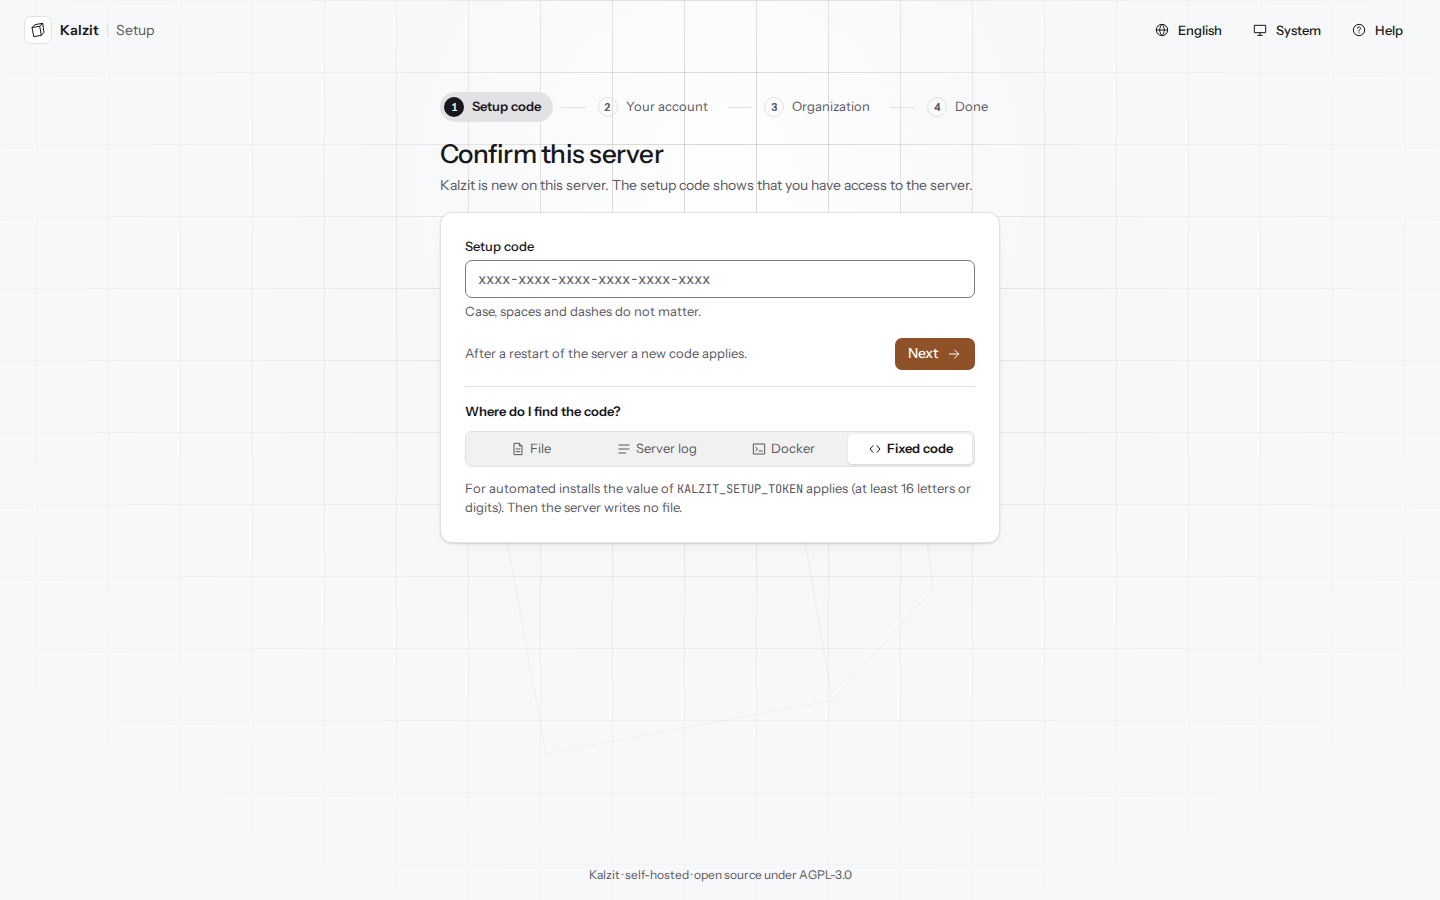
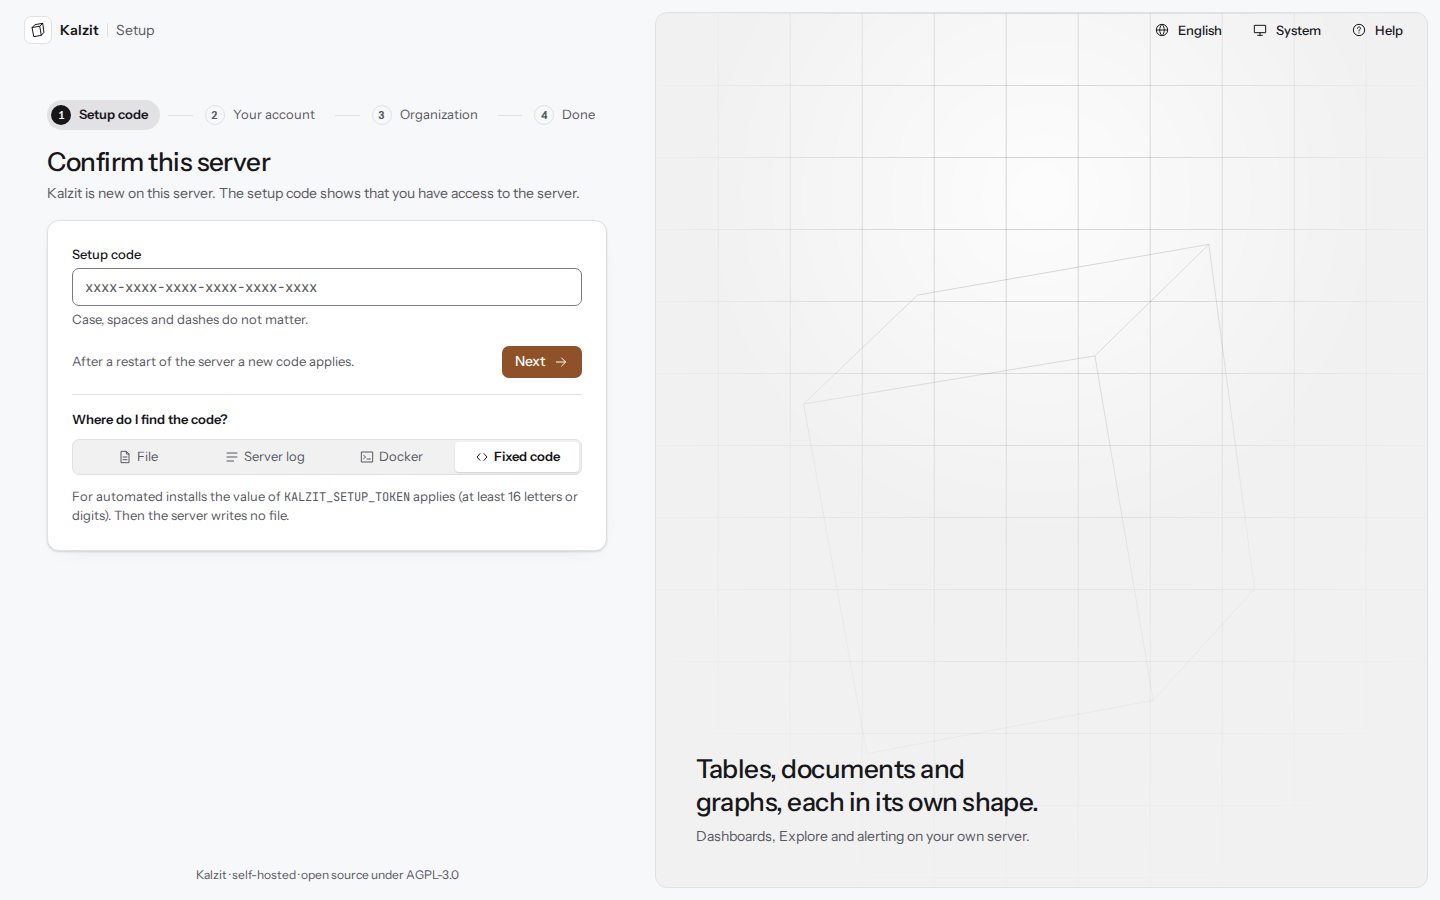
Split the pages before sign-in into form and panel, with the sign-in notice as a card of its own
On wide screens the form stands in a column on the left and a panel on the
right carries the calm backdrop. The admin's sign-in notice moves from a small
grey box above the form into a raised card in that panel, level with the
heading; on narrow screens it stands above the heading. Without a notice the
panel says one line about the product. The last setup step and help keep the
centred column. The blueprint notes the new layout.

diff --git a/ui/src/auth/auth.css b/ui/src/auth/auth.css
@@ -1,6 +1,8 @@
 /*
  * The pages before the app shell: sign in, setup and help (docs/design/blueprint/Access.dc.html).
- * One centred column on a calm backdrop, a slim top bar with the mark, language, theme and help.
+ * A slim top bar with the mark, language, theme and help. On wide screens the form stands in a
+ * column on the left and a panel on the right carries the calm backdrop and the admin's notice or
+ * one line about the product; narrow screens and the widest pages keep one centred column.
  * Graphite and hairlines as in the app; the copper only on the one primary button of a screen.
  * Errors are a tinted fill, selected and current states a neutral tint and weight.
  */
@@ -23,6 +25,8 @@
   /* Top bar: the mark (and "Setup") on the left, language, theme and help on the right. */
   .access__top {
     position: relative;
+    /* Above the backdrop, which follows it in the page. */
+    z-index: var(--z-sticky);
     display: flex;
     align-items: center;
     gap: var(--space-2);
@@ -85,6 +89,66 @@
 
   .access__tool:hover {
     color: var(--text);
+  }
+
+  /*
+   * The panel: on narrow screens it is no box of its own (the backdrop lies behind the page and
+   * the notice stands above the form); the split layout below makes it the right half.
+   */
+  .access__panel {
+    display: contents;
+  }
+
+  .access__panel-body {
+    position: relative;
+    box-sizing: border-box;
+    width: 100%;
+    max-width: calc(var(--size-access-column) + var(--space-8));
+    margin-inline: auto;
+    padding: var(--space-5) var(--space-4) 0;
+  }
+
+  .access__panel-body:not(:has(.access__notice)) {
+    display: none;
+  }
+
+  /* One line about the product; only the panel of the split layout has room for it. */
+  .access__say {
+    display: grid;
+    gap: var(--space-2);
+    max-width: var(--size-access-column);
+  }
+
+  .access__say-title {
+    font-size: var(--font-size-2xl);
+    font-weight: var(--font-weight-medium);
+    line-height: var(--line-height-tight);
+    letter-spacing: var(--letter-spacing-display);
+    text-wrap: balance;
+  }
+
+  .access__say-text {
+    color: var(--text-muted);
+  }
+
+  /* The admin's notice to everyone who signs in: a raised card in full text color, not a hint. */
+  .access__notice {
+    display: flex;
+    align-items: flex-start;
+    gap: var(--space-3);
+    padding: var(--space-4);
+    border: var(--border-width) solid var(--border);
+    border-radius: var(--radius-lg);
+    background: var(--bg-raised);
+    box-shadow: var(--shadow-raised);
+    color: var(--text);
+    overflow-wrap: anywhere;
+  }
+
+  .access__notice > .icon {
+    flex: none;
+    margin-block-start: var(--space-half);
+    color: var(--text-muted);
   }
 
   /* The column: as wide as its content needs, centred, with room above and below. */
@@ -1197,6 +1261,87 @@
 
   :root[data-theme="contrast"] .access-bd {
     display: none;
+  }
+
+  /*
+   * Wide screens: the form on the left, the panel on the right. The panel is a well a step below
+   * the page with the backdrop inside it; it stays in view while a long form scrolls. The top bar
+   * runs across both, so language, theme and help stand in the panel's corner.
+   */
+  @media (min-width: 64rem) {
+    .access--split {
+      display: grid;
+      grid-template-rows: auto minmax(0, 1fr) auto;
+      grid-template-columns: minmax(0, 5fr) minmax(0, 6fr);
+    }
+
+    .access--split .access__top {
+      grid-row: 1;
+      grid-column: 1 / -1;
+    }
+
+    .access--split .access__panel {
+      position: sticky;
+      inset-block-start: var(--space-3);
+      display: flex;
+      flex-direction: column;
+      grid-row: 1 / -1;
+      grid-column: 2;
+      align-self: start;
+      justify-content: flex-end;
+      height: calc(100dvh - var(--space-6));
+      margin: var(--space-3) var(--space-3) var(--space-3) 0;
+      overflow: hidden;
+      border: var(--border-width) solid var(--border);
+      border-radius: var(--radius-lg);
+      background: var(--bg-surface);
+    }
+
+    .access--split .access__panel-body,
+    .access--split .access__panel-body:not(:has(.access__notice)) {
+      display: block;
+      max-width: none;
+      margin: 0;
+      padding: var(--space-10);
+    }
+
+    /* A notice stands level with the page's heading, next to the form it speaks about. */
+    .access--split .access__panel:has(.access__notice) {
+      justify-content: flex-start;
+    }
+
+    .access--split .access__panel-body:has(.access__notice) {
+      padding-block-start: var(--space-access-notice);
+    }
+
+    .access--split .access__notice {
+      max-width: var(--size-access-column-wide);
+      padding: var(--space-5);
+      font-size: var(--font-size-lg);
+    }
+
+    .access--split .access__column {
+      grid-row: 2;
+      grid-column: 1;
+      padding-block-start: var(--space-16);
+    }
+
+    .access--split .access__column--wide {
+      padding-block-start: var(--space-10);
+    }
+
+    .access--split .access__below {
+      text-align: start;
+    }
+
+    .access--split .factor__who {
+      justify-content: flex-start;
+    }
+
+    .access--split .access__fine {
+      grid-row: 3;
+      grid-column: 1;
+    }
   }
 
   @media (max-width: 48rem) {

diff --git a/ui/src/auth/AccessLayout.tsx b/ui/src/auth/AccessLayout.tsx
@@ -19,14 +19,17 @@ export const HELP_PAGE = "getting-started";
 
 /**
  * The frame of the pages before the app shell: sign in, setup and help. A slim top bar with the
- * mark, language, theme and help; one centred column on the calm backdrop; the license line at
- * the bottom. Language and theme chosen here become the preference of the account that signs in
- * next, where it has none.
+ * mark, language, theme and help; the form in a column on the left and, on wide screens, a panel
+ * on the right with the calm backdrop and what the page has to say: the admin's notice where one
+ * is set, otherwise one line about the product. Narrow screens and the widest pages ("done") keep
+ * one centred column on the backdrop, the notice above the form. Language and theme chosen here
+ * become the preference of the account that signs in next, where it has none.
  */
 export function AccessLayout({
   context,
   width = "narrow",
   helpInNewTab = false,
+  notice,
   children,
 }: {
   /** A word next to the mark, such as "Setup". */
@@ -34,6 +37,8 @@ export function AccessLayout({
   width?: AccessWidth;
   /** Opens help in a new tab, so a half-filled form stays (setup). */
   helpInNewTab?: boolean;
+  /** The admin's notice for everyone who signs in; it takes the panel's place of the product line. */
+  notice?: ReactNode;
   children: ReactNode;
 }) {
   const { t, language } = useI18n();
@@ -64,8 +69,7 @@ export function AccessLayout({
   }));
 
   return (
-    <div className="access">
-      <Backdrop />
+    <div className={width === "done" ? "access" : "access access--split"}>
       <header className="access__top">
         <Link to="/" className="access__brand">
           <span className="access__mark">
@@ -101,6 +105,22 @@ export function AccessLayout({
           </Link>
         </div>
       </header>
+      <div className="access__panel">
+        <Backdrop />
+        <div className="access__panel-body">
+          {notice === undefined || notice === null ? (
+            <div className="access__say">
+              <p className="access__say-title">{t("access.panel.title")}</p>
+              <p className="access__say-text">{t("access.panel.text")}</p>
+            </div>
+          ) : (
+            <div className="access__notice" role="note">
+              <Icon name="info" />
+              {notice}
+            </div>
+          )}
+        </div>
+      </div>
       <main className={`access__column access__column--${width}`}>{children}</main>
       <p className="access__fine">{t("access.fineprint")}</p>
     </div>

diff --git a/ui/src/auth/LoginPage.tsx b/ui/src/auth/LoginPage.tsx
@@ -24,7 +24,6 @@ import { type ErrorCode, isApiError } from "../api/client";
 import type { LoginSearch } from "../app/baseRoutes";
 import { useBrandingSync } from "../appearance/api";
 import { LimitedMarkdown } from "../appearance/LimitedMarkdown";
-import { Icon } from "../components/Icon";
 import { TextField } from "../components/TextField";
 import { errorReason } from "../features/datasources/reasons";
 import { fetchPrompt, isPrompt, type Prompt } from "../features/security/api";
@@ -77,7 +76,8 @@ function errorCode(error: unknown): ErrorCode {
 }
 
 /**
- * Sign in: one card in the centred column, the admin's welcome text and notice above it. With
+ * Sign in: one card in the column, the admin's welcome text above it and the admin's notice in
+ * the panel next to it (above the form on narrow screens). With
  * identity providers set up, their buttons come first (board Identity, frames 1A to 1D) and the
  * password form follows open, folded or not at all, as the server says.
  */
@@ -471,7 +471,11 @@ function SignInPage({ variant, search }: { variant: "main" | "local"; search: Lo
   const returnTo = search.redirect ?? "/";
 
   return (
-    <AccessLayout>
+    <AccessLayout
+      notice={
+        notice === "" ? undefined : <LimitedMarkdown text={notice} className="limited-markdown" />
+      }
+    >
       <OrgLine organization={organization} serverName={serverName} />
       <div className="access__head">
         <h1>{t(variant === "local" ? "access.login.localTitle" : "access.login.title")}</h1>
@@ -487,12 +491,6 @@ function SignInPage({ variant, search }: { variant: "main" | "local"; search: Lo
           <LimitedMarkdown text={welcome} className="access__lead limited-markdown" />
         )}
       </div>
-      {notice === "" ? null : (
-        <div className="access-notice access-notice--info" role="note">
-          <Icon name="alert" />
-          <LimitedMarkdown text={notice} className="limited-markdown" />
-        </div>
-      )}
       <form
         className="access__card"
         noValidate

diff --git a/docs/design/blueprint/Access.dc.html b/docs/design/blueprint/Access.dc.html
@@ -162,6 +162,7 @@ button{font:inherit;cursor:pointer}
 <header style="display:flex;flex-direction:column;gap:8px;max-width:1040px">
 <h1 style="margin:0;font-size:20px;font-weight:600;letter-spacing:-.01em">Anmelden und Ersteinrichtung</h1>
 <p style="margin:0;color:#a6a6ae;line-height:1.6">Die zwei Seiten vor der App: Anmelden und die Einrichtung beim ersten Start. Beide stehen auf demselben ruhigen Hintergrund wie der Hero der Website: ein feines Raster und die Kante eines Kalzit-Kristalls, kaum sichtbar, bis ein weiches Licht langsam darüber wandert. Eine Spalte in der Mitte, eine Karte mit weichen Kanten, die Kupferfarbe nur auf dem einen Hauptknopf.</p>
+<p style="margin:0;color:#ececef;line-height:1.6">Stand 17.11.2026 (Entscheidung des Inhabers): Ab 1024 px Breite sind diese Seiten zweigeteilt. Links steht das Formular in seiner Spalte, rechts eine Fläche mit dem ruhigen Hintergrund und dem Hinweis der Admins als angehobene Karte auf Höhe der Überschrift; ohne Hinweis steht dort unten eine Zeile zum Produkt. Darunter und auf „Fertig“ und der Hilfe bleibt die Spalte in der Mitte, der Hinweis steht als Karte über der Überschrift. Die Rahmen unten zeigen die mittige Spalte; Karten, Felder, Zustände und Texte gelten unverändert. Einzelheiten in <code>README.md</code>, „Layout of the pages before the app“.</p>
 <p style="margin:0;color:#8f8f97;line-height:1.6">Jeder Rahmen ist in Dunkel gezeigt; Hell, wo sich etwas anders verhält oder liest. Fehlerzustände färben das Feld flächig und nennen den Fehler darunter, nie mit farbigem Rahmen. Ausgewählt und aktuell heißt: neutrale Tönung und Schriftgewicht.</p>
 </header>
 <div style="display:flex;flex-direction:column;gap:10px">

diff --git a/ui/src/auth/access.test.tsx b/ui/src/auth/access.test.tsx
@@ -223,6 +223,19 @@ describe("sign-in page", () => {
     expect(screen.queryByText("With your account at Kalzit.")).toBeNull();
     const notice = screen.getByText("Maintenance on Saturday.");
     expect(notice.closest('[role="note"]')).toBeTruthy();
+    // The notice takes the panel: it stands before the form and replaces the line on the product.
+    const note = notice.closest(".access__panel") as HTMLElement;
+    const form = screen.getByRole("form", { name: "Sign in" });
+    expect(note.compareDocumentPosition(form) & Node.DOCUMENT_POSITION_FOLLOWING).toBeTruthy();
+    expect(screen.queryByText("Tables, documents and graphs, each in its own shape.")).toBeNull();
+  });
+
+  it("says one line about the product in the panel while no notice is set", async () => {
+    installFakeServer();
+    renderApp("/login");
+    const line = await screen.findByText("Tables, documents and graphs, each in its own shape.");
+    expect(line.closest(".access__panel")).toBeTruthy();
+    expect(document.querySelector('[role="note"]')).toBeNull();
   });
 });
 

diff --git a/ui/src/styles/tokens.css b/ui/src/styles/tokens.css
@@ -556,6 +556,8 @@
     --size-access-column-wide: 35rem;
     --size-access-column-done: 47.5rem;
     --size-access-top: 3.75rem;
+    /* From the panel's edge down to the page's heading: the top bar and the column's room above. */
+    --space-access-notice: calc(var(--size-access-top) + var(--space-16) - var(--space-3));
     --size-auth-step: 1.25rem;
     --size-access-tile: 1.875rem;
     --size-access-preview: 2.75rem;

diff --git a/docs/design/blueprint/README.md b/docs/design/blueprint/README.md
@@ -23,7 +23,7 @@ titles and heights.
 | `DataSourceNew.dc.html` | Add and configure a data source, advanced options per type |
 | `DataChat.dc.html` | "Fragen", the AI agent chat (M4), with the changes frame 11 of `AI.dc.html` lists |
 | `SavedAnalyses.dc.html` | Saved analyses: save dialog and saved state in Explore, the list under Explore, the panel editor's "From saved analysis", and the conflict on save |
-| `Access.dc.html` | Sign in and first-run setup on the calm backdrop: every state of both, 360 px layouts, light and dark, notes on motion and accessibility |
+| `Access.dc.html` | Sign in and first-run setup on the calm backdrop: every state of both, 360 px layouts, light and dark, notes on motion and accessibility. Since 2026-11-17 (owner decision) the pages before the app are split on wide screens: the form on the left, a panel with the backdrop and the admin's notice on the right; see "Layout of the pages before the app" below |
 | `Graph.dc.html` | Graph native (M3): network panel, explorer, hierarchy and paths, the graph panel editor, and Explore with graph steps (frames 5A and 5B) |
 | `Plugins.dc.html` | Plugins (M4): installed plugins, install from a file or the catalog, signatures and trusted keys, permissions and their re-approval, per-organization blocking |
 | `AI.dc.html` | KI (M4): AI settings and providers, limits and usage, per data source opt-in and excluded fields, the first-use notice, and the AI functions in the UI |
@@ -37,3 +37,21 @@ titles and heights.
 | `Settings075.dc.html` | Server settings 0.7.5 (M7, 0.7.5, approved): Verwaltung > CORS (origins, methods, headers, credentials, preflight cache, origin check; errors and locked values), Verwaltung > Registrierung (self-registration off by default, mail domains, organization, default role, admin approval, rate limits without captcha), the visitor sign-up states, requests under Mitglieder, Verwaltung > Sicherungen (schedule, retention, contents, last runs) with the target form (local folder or S3-compatible, test and one explicit Save), app plugins (list and detail with pages and permissions, install approval, an app in the sidebar, per-organization blocking and roles, update with new permissions, failure), empty states, hints and the decisions; light and dark |
 
 The boards contain sample data only.
+
+## Layout of the pages before the app
+
+Owner decision of 2026-11-17, which replaces the centred column of `Access.dc.html` and of the
+link pages in `Identity.dc.html` on wide screens. Cards, fields, states, wording and the phone
+layouts of both boards stay as drawn.
+
+- **From 1024 px:** two parts. The form stands in a column on the left, under the mark, starting
+  at the same height on every page. On the right a panel, a well one step below the page with a
+  hairline and soft corners, carries the calm backdrop (grid, crystal, drifting light) and stays
+  in view while a long form scrolls. Language, theme and help stand in the panel's top corner.
+- **The admin's sign-in notice** is a raised card in the panel, level with the page's heading, in
+  full text color and a size above body text, so that it is read before the form. Without a
+  notice the panel says one line about the product at its bottom.
+- **Below 1024 px** and on the widest pages (the last setup step, help): one centred column on the
+  backdrop as on the board; the notice is the same raised card above the heading.
+- Sign in, the second step, the links for passwords, invitations and email confirmation, and
+  setup steps 1 to 3 use the split layout.

diff --git a/docs/releases/unreleased/auth-pages-redesign.md b/docs/releases/unreleased/auth-pages-redesign.md
@@ -1,0 +1,3 @@
+## Improved
+
+- Sign in, the second step, password and invitation links and setup: on wide screens the form stands on the left and a panel on the right carries the backdrop. The admin's sign-in notice is now a card of its own in that panel, level with the heading (above the form on phones), instead of a small grey box.
